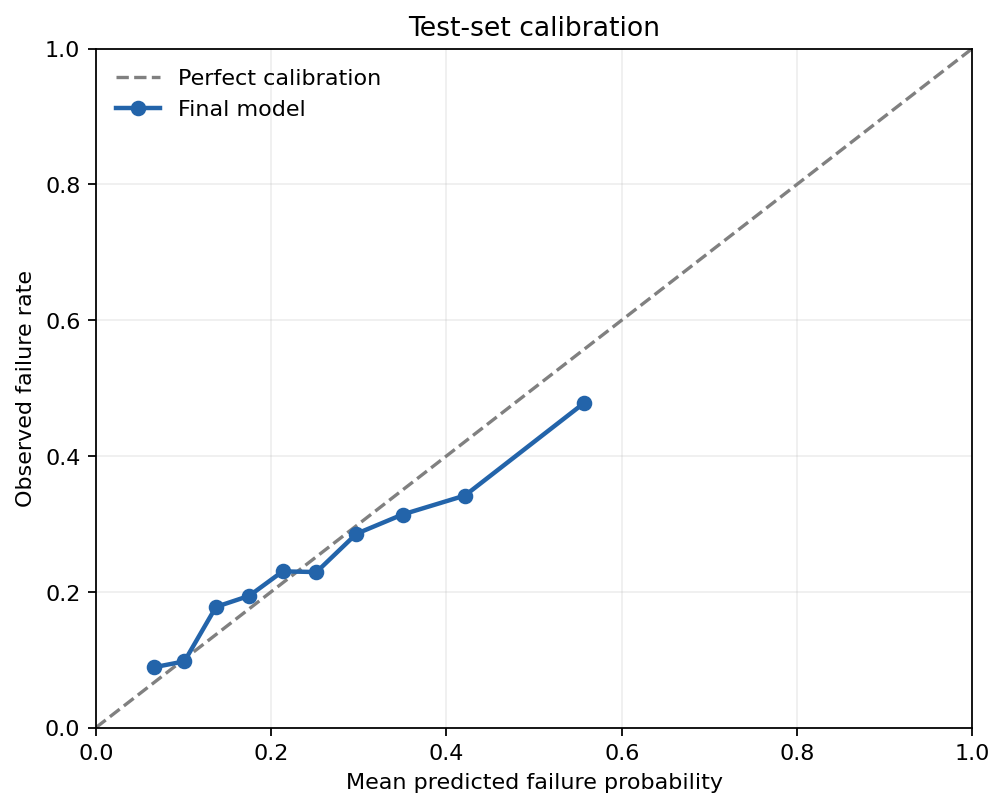
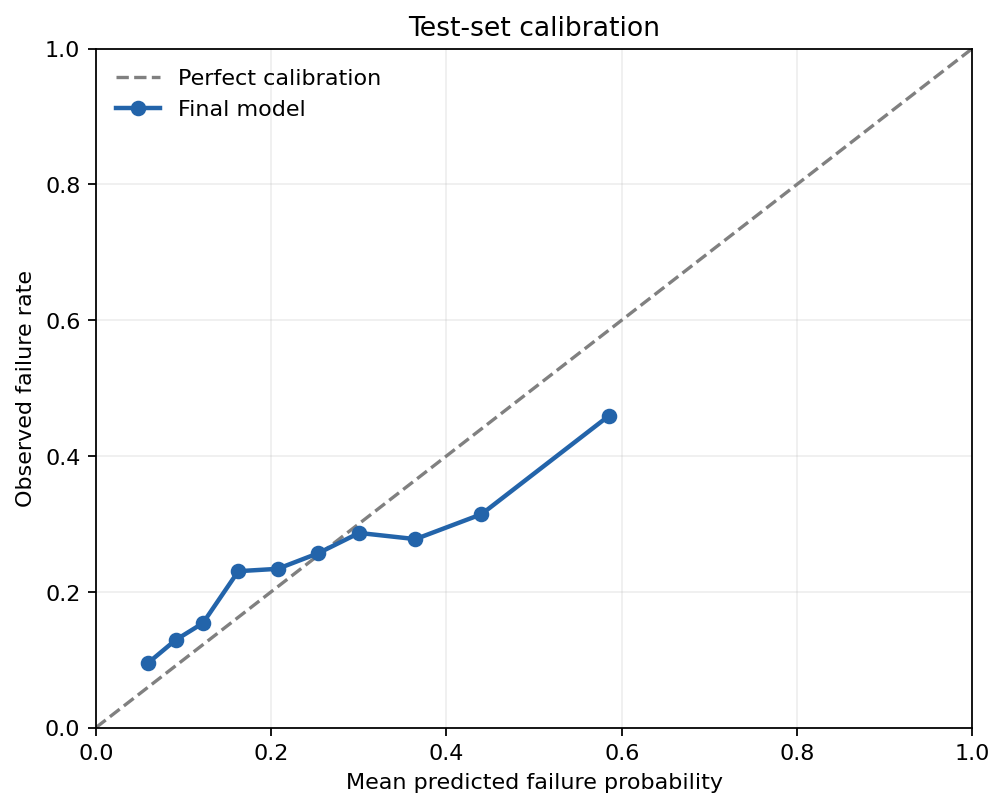
refactor: fit category handling without future-data leakage

Changed region(s): [[0.1234, 0.495, 0.6169, 0.8354]]

diff --git a/src/inspection_risk/features.py b/src/inspection_risk/features.py
@@ -31,12 +31,6 @@ class TemporalSplit:
     validation_end: pd.Timestamp
 
 
-def _collapse_rare(series: pd.Series, *, minimum_count: int) -> pd.Series:
-    cleaned = series.fillna("Unknown").astype(str).str.strip()
-    common = cleaned.value_counts()[lambda counts: counts >= minimum_count].index
-    return cleaned.where(cleaned.isin(common), "Other")
-
-
 def _inspection_group(series: pd.Series) -> pd.Series:
     normalized = series.fillna("Unknown").astype(str).str.lower()
     output = pd.Series("Other", index=series.index, dtype="string")
@@ -92,7 +86,11 @@ def prepare_model_frame(raw: pd.DataFrame) -> pd.DataFrame:
     frame["smoothed_prior_fail_rate"] = (
         frame["prior_failures"] + 1.0
     ) / (frame["prior_inspections"] + 4.0)
-    frame["facility_group"] = _collapse_rare(frame["facility_type"], minimum_count=100)
+    # Frequency-based grouping belongs inside fitted model preprocessing, not here;
+    # looking at full-dataset category counts would reveal the future test period.
+    frame["facility_group"] = (
+        frame["facility_type"].fillna("Unknown").astype(str).str.strip().str.lower()
+    )
     frame["risk_group"] = (
         frame["risk"].fillna("Unknown").str.extract(r"(Risk \d)", expand=False).fillna("Unknown")
     )
@@ -137,4 +135,3 @@ def chronological_split(
     if min(len(train), len(validation), len(test)) == 0:
         raise ValueError("temporal split produced an empty partition")
     return TemporalSplit(train, validation, test, train_end, validation_end)
-

diff --git a/src/inspection_risk/modeling.py b/src/inspection_risk/modeling.py
@@ -69,7 +69,12 @@ def _boosted_pipeline() -> Pipeline:
             ("imputer", SimpleImputer(strategy="most_frequent")),
             (
                 "ordinal",
-                OrdinalEncoder(handle_unknown="use_encoded_value", unknown_value=-1),
+                OrdinalEncoder(
+                    handle_unknown="use_encoded_value",
+                    unknown_value=-1,
+                    min_frequency=100,
+                    max_categories=200,
+                ),
             ),
         ]
     )
@@ -89,6 +94,7 @@ def _boosted_pipeline() -> Pipeline:
                     max_leaf_nodes=24,
                     min_samples_leaf=45,
                     l2_regularization=1.0,
+                    categorical_features=[8, 9, 10, 11],
                     random_state=42,
                 ),
             ),

diff --git a/docs/interview_notes.md b/docs/interview_notes.md
@@ -2,7 +2,7 @@
 
 ## The 30-second explanation
 
-I used nearly 60,000 Chicago food inspections to ask whether upcoming failures can be prioritized from pre-inspection information. The hard part was not the classifier; it was creating establishment history without leaking current or same-day outcomes and evaluating on future time periods. I compared a prevalence baseline, logistic regression, and gradient boosting. Boosting reached 0.395 average precision on an untouched 2026 test set versus a 0.244 failure-rate reference, but the calibration and error analysis show it is only a prioritization aid.
+I used nearly 60,000 Chicago food inspections to ask whether upcoming failures can be prioritized from pre-inspection information. The hard part was not the classifier; it was creating establishment history without leaking current or same-day outcomes and evaluating on future time periods. I compared a prevalence baseline, logistic regression, and gradient boosting. Boosting reached 0.370 average precision on an untouched 2026 test set versus a 0.244 failure-rate reference, but the calibration and error analysis show it is only a prioritization aid.
 
 ## Methodology in plain language
 
@@ -20,10 +20,10 @@ I sorted records by date, calculated each license's history from prior calendar 
 
 ## Results without exaggeration
 
-- Test AP: 0.395; test failure prevalence: 0.244.
-- Test ROC AUC: 0.671; useful but far from deterministic.
-- Top-risk 10% precision: 47.8%; recall: 19.6%.
-- The validation-selected F1 threshold flags 50.7% of test rows, so it is not a sensible scarce-capacity policy by itself.
+- Test AP: 0.370; test failure prevalence: 0.244.
+- Test ROC AUC: 0.648; useful but far from deterministic.
+- Top-risk 10% precision: 45.9%; recall: 18.9%.
+- The validation-selected F1 threshold flags 49.3% of test rows, so it is not a sensible scarce-capacity policy by itself.
 - High predicted probabilities are somewhat overconfident. Recalibration and monitoring would be required.
 
 ## Important tradeoffs and mistakes to avoid
@@ -51,11 +51,10 @@ I selected by validation AP, supported by three date-grouped expanding-window fo
 Complaint, canvass, license, and re-inspection visits are scheduled under different conditions and have different base rates. The field is known beforehand and predictive, but it partly reflects policy, so I would monitor it rather than give it a causal interpretation.
 
 **What does top-decile precision mean?**  
-If capacity covers 10% of upcoming inspections, about 47.8% of that ranked test queue failed. It captures only 19.6% of all failures, so widening the queue trades precision for recall.
+If capacity covers 10% of upcoming inspections, about 45.9% of that ranked test queue failed. It captures only 18.9% of all failures, so widening the queue trades precision for recall.
 
 **Is the model calibrated?**  
-Only moderately. The Brier score is 0.173, and the reliability plot shows overprediction in the highest bin. I would recalibrate on a recent held-out window and monitor calibration drift before using probabilities as absolute risk.
+Only moderately. The Brier score is 0.179, and the reliability plot shows overprediction in the highest bin. I would recalibrate on a recent held-out window and monitor calibration drift before using probabilities as absolute risk.
 
 **What is the biggest validity threat?**  
 The label and inspection schedule are administrative processes. The model predicts recorded outcomes under that process, not latent food safety. Policy changes or selective inspection can shift both features and targets.
-

diff --git a/README.md b/README.md
@@ -17,11 +17,11 @@ Gradient boosting was selected on the validation period and then refit on train 
 
 | Metric | Result | Interpretation |
 |---|---:|---|
-| Average precision | **0.395** | Prevalence-only reference is the 0.244 test failure rate |
-| ROC AUC | **0.671** | Moderate ranking signal, not a deterministic forecast |
-| Brier score | **0.173** | Lower is better; probability accuracy is useful but imperfect |
-| Precision in top-risk 10% | **47.8%** | About 2× the overall test failure rate |
-| Recall in top-risk 10% | **19.6%** | A narrow queue cannot capture most failures |
+| Average precision | **0.370** | Prevalence-only reference is the 0.244 test failure rate |
+| ROC AUC | **0.648** | Moderate ranking signal, not a deterministic forecast |
+| Brier score | **0.179** | Lower is better; probability accuracy is useful but imperfect |
+| Precision in top-risk 10% | **45.9%** | About 1.9× the overall test failure rate |
+| Recall in top-risk 10% | **18.9%** | A narrow queue cannot capture most failures |
 
 The model is useful for prioritization, not for replacing inspections or penalizing businesses. The highest predicted-risk bin is somewhat overconfident, and geographic/facility variables require governance review before any operational use.
 
@@ -64,7 +64,7 @@ Rare facility categories are grouped to control cardinality. A fixed Beta-style 
 
 ### Model selection
 
-Validation average precision was 0.250 for the prevalence baseline, 0.359 for logistic regression, and 0.392 for histogram gradient boosting. Three expanding-window folds also favored boosting (mean AP 0.416 vs 0.399), though both declined on later folds—a sign of temporal drift rather than a result to hide.
+Validation average precision was 0.250 for the prevalence baseline, 0.359 for logistic regression, and 0.381 for histogram gradient boosting. Three expanding-window folds also favored boosting (mean AP 0.414 vs 0.399). The final test score was lower than cross-validation, a sign of temporal drift rather than a result to hide.
 
 ![Permutation importance](artifacts/figures/feature_importance.png)
 
@@ -120,4 +120,3 @@ Administrative data reflects inspection policy, scheduling, and recording practi
 Full metrics are in [`artifacts/reports/metrics.json`](artifacts/reports/metrics.json); segmented false-negative/false-positive rates are in [`artifacts/reports/segment_error_analysis.csv`](artifacts/reports/segment_error_analysis.csv).
 
 Data source: [City of Chicago Food Inspections](https://data.cityofchicago.org/Health-Human-Services/Food-Inspections/4ijn-s7e5). The source is updated over time, so a fresh download will not reproduce the committed snapshot byte-for-byte.
-
